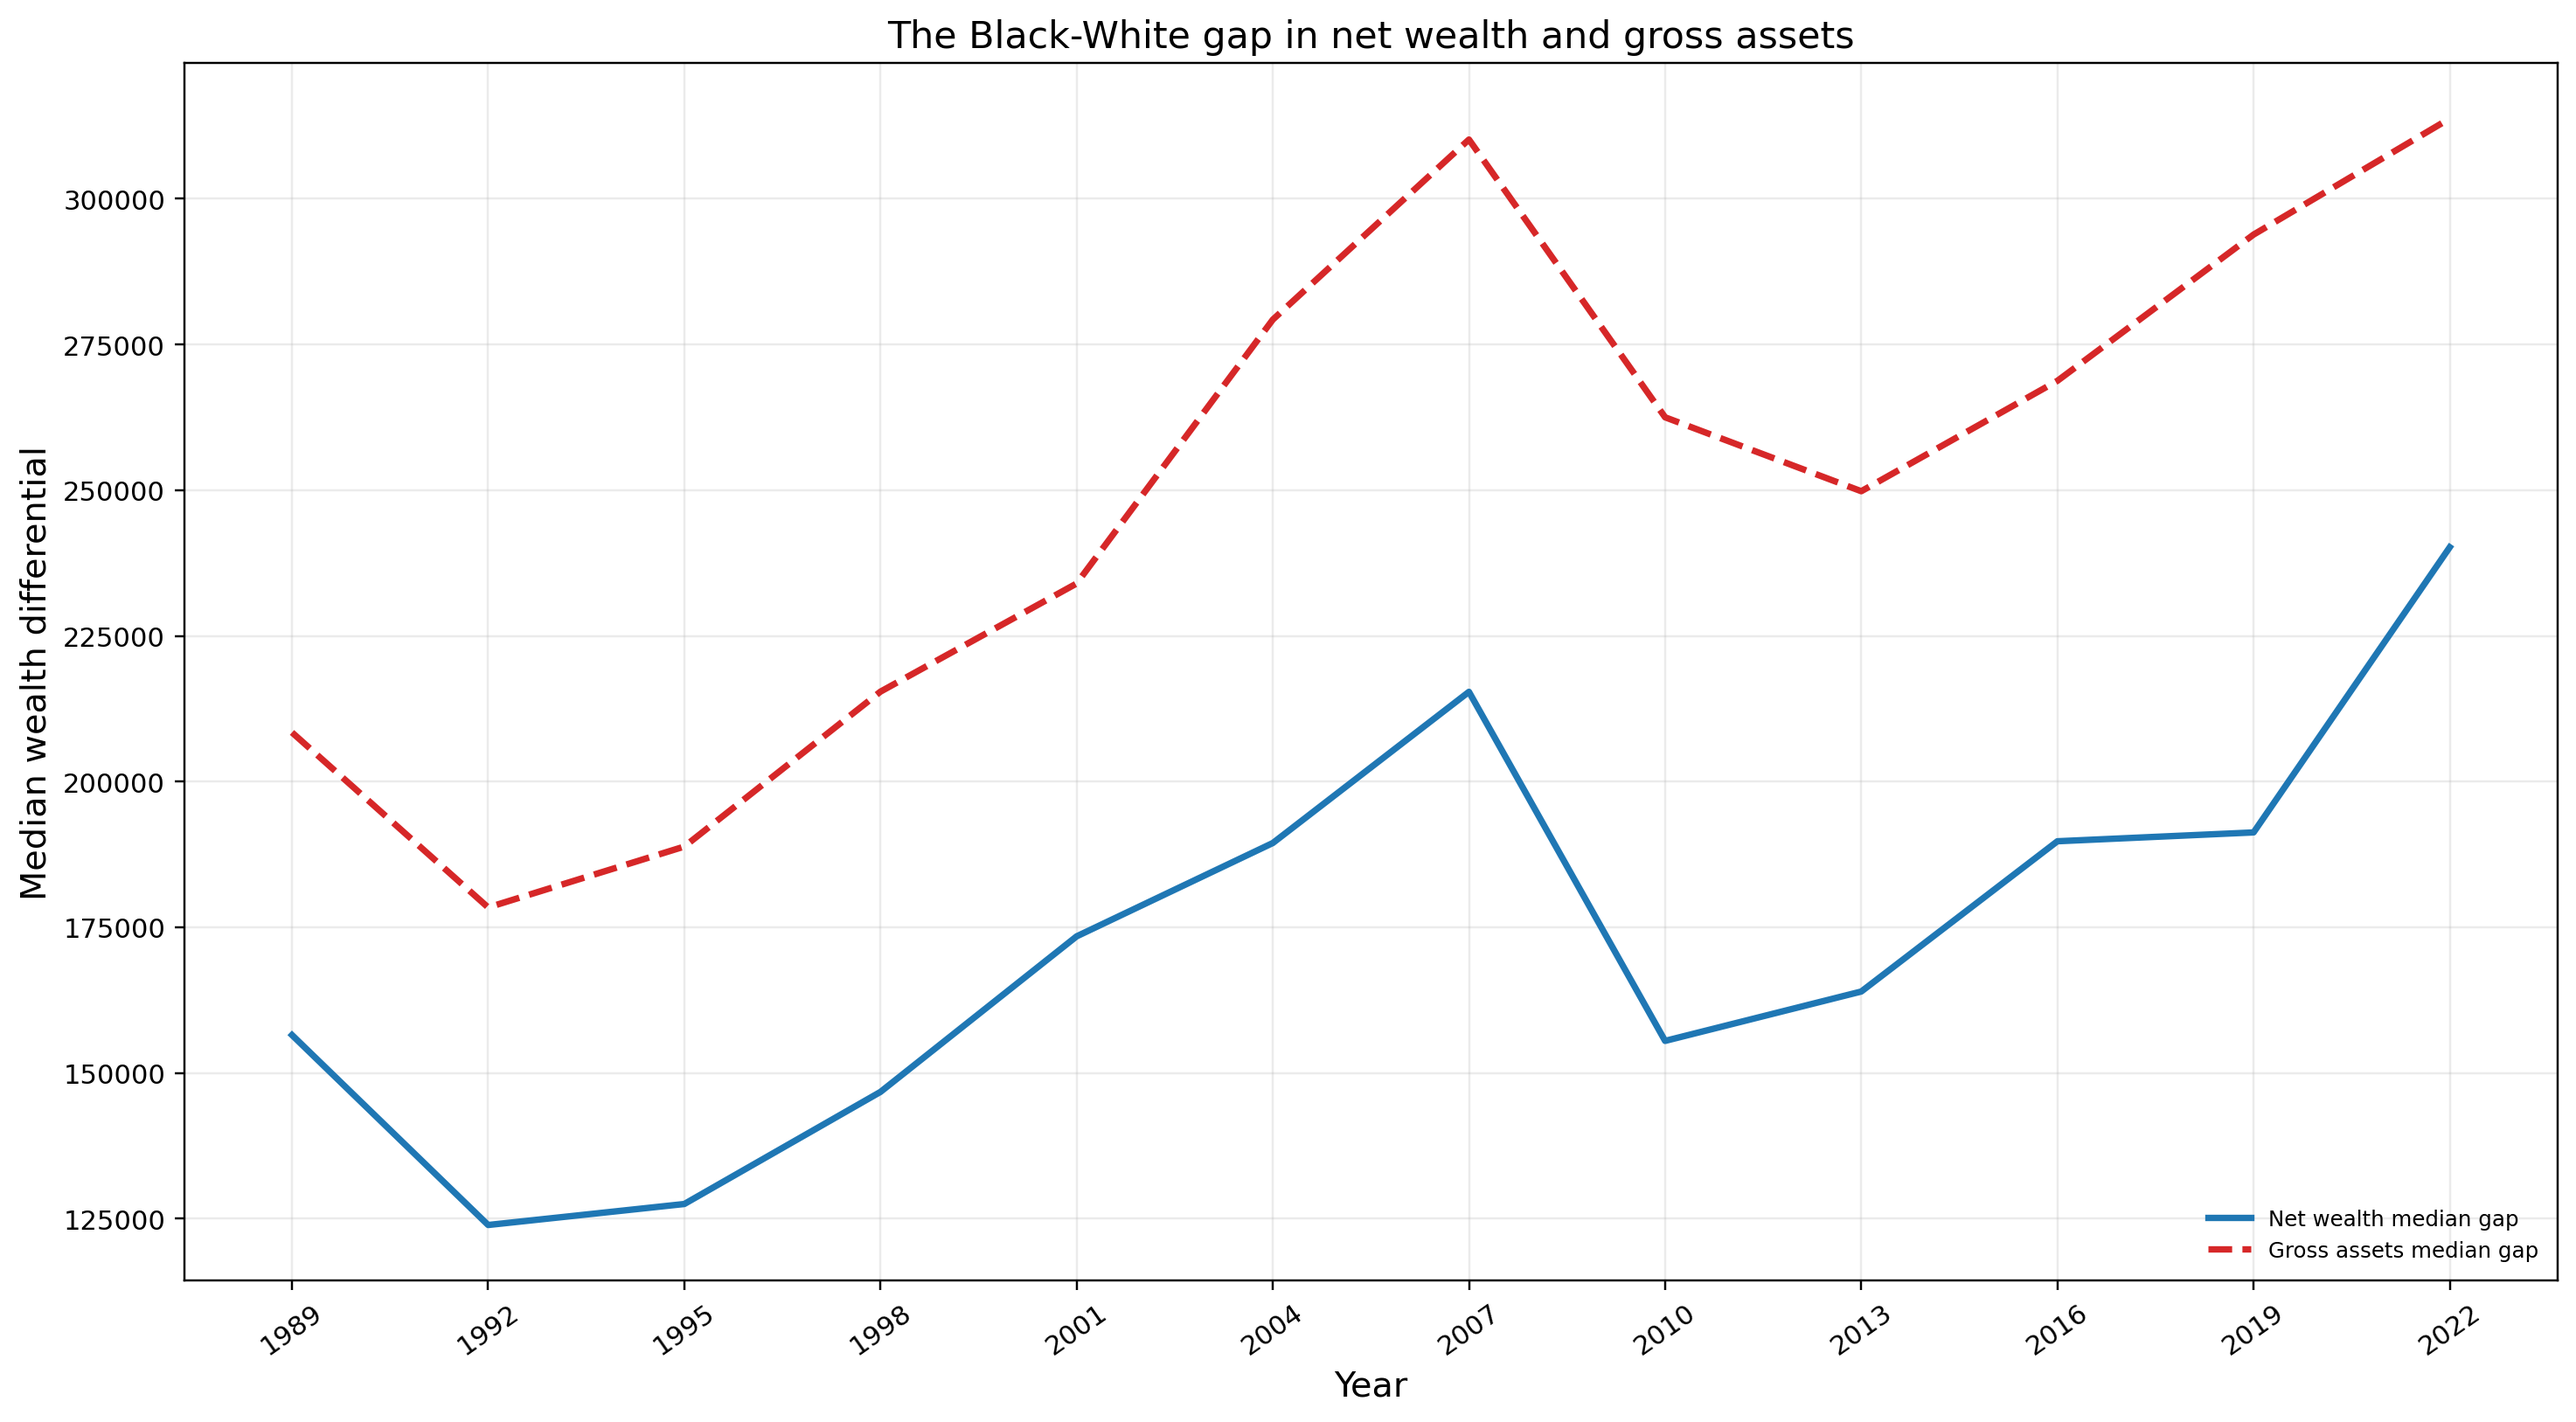
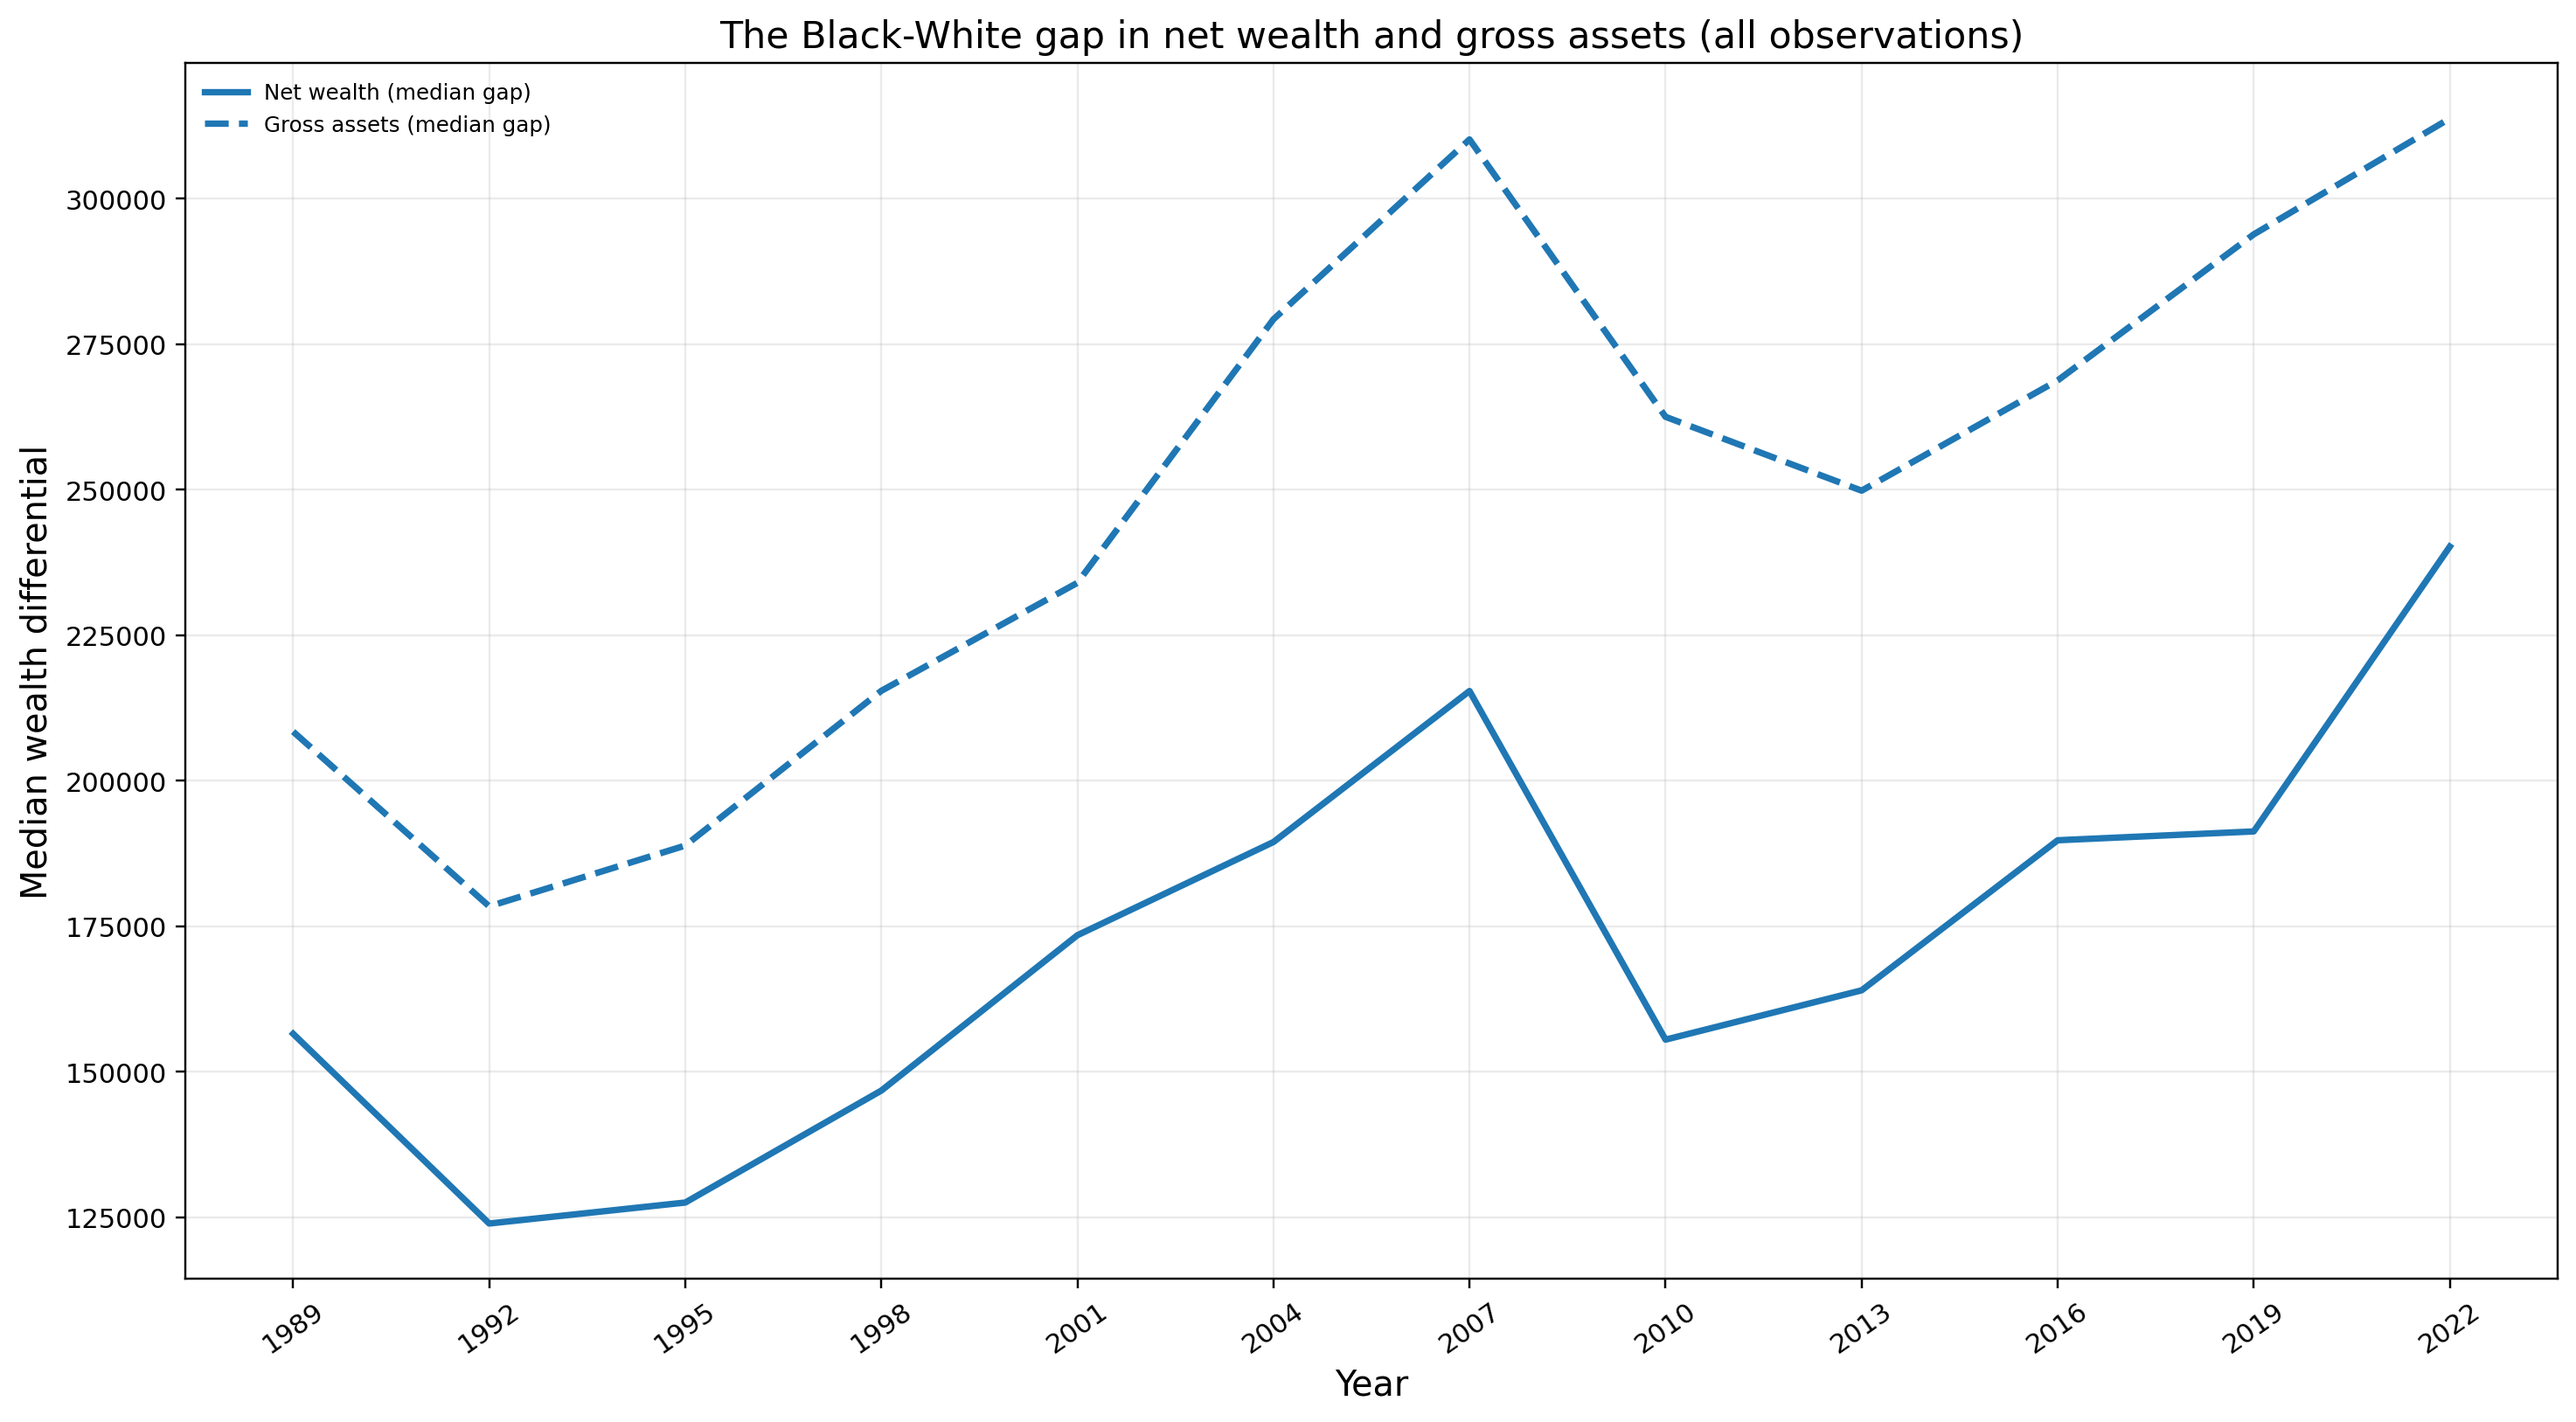
edits

diff --git a/chapters/chapter3/Figures/03_gap_diagnostic_all_obs.tex b/chapters/chapter3/Figures/03_gap_diagnostic_all_obs.tex
@@ -14,8 +14,8 @@ scaled x ticks=false,
 xticklabel style={/pgf/number format/fixed,/pgf/number format/precision=0,/pgf/number format/1000 sep={},rotate=35,anchor=east,font=\tiny},
 ]
 \addplot+[thick, blue] coordinates {(1989, 156503.09799760) (1992, 123903.78788000) (1995, 127505.91773900) (1998, 146741.86666300) (2001, 173432.89977500) (2004, 189448.58886900) (2007, 215394.21844600) (2010, 155495.50562100) (2013, 163966.35253500) (2016, 189754.11499900) (2019, 191268.87416800) (2022, 240210.00000000)};
-\addlegendentry{Net wealth median gap}
-\addplot+[thick, red, dashed] coordinates {(1989, 208424.86828400) (1992, 178396.59091300) (1995, 188839.59310200) (1998, 215426.83333700) (2001, 233983.74904100) (2004, 279262.64990800) (2007, 310169.39175400) (2010, 262505.36828800) (2013, 249818.94124500) (2016, 268763.85569400) (2019, 293858.54304300) (2022, 313770.00000000)};
-\addlegendentry{Gross assets median gap}
+\addlegendentry{Net wealth (median gap)}
+\addplot+[thick, blue, dashed] coordinates {(1989, 208424.86828400) (1992, 178396.59091300) (1995, 188839.59310200) (1998, 215426.83333700) (2001, 233983.74904100) (2004, 279262.64990800) (2007, 310169.39175400) (2010, 262505.36828800) (2013, 249818.94124500) (2016, 268763.85569400) (2019, 293858.54304300) (2022, 313770.00000000)};
+\addlegendentry{Gross assets (median gap)}
 \end{axis}
 \end{tikzpicture}

diff --git a/chapters/chapter3/Figures/03_gap_diagnostic_positive_only.tex b/chapters/chapter3/Figures/03_gap_diagnostic_positive_only.tex
@@ -14,8 +14,8 @@ scaled x ticks=false,
 xticklabel style={/pgf/number format/fixed,/pgf/number format/precision=0,/pgf/number format/1000 sep={},rotate=35,anchor=east,font=\tiny},
 ]
 \addplot+[thick, blue] coordinates {(1989, 136190.89567800) (1992, 118309.46969900) (1995, 119744.85626100) (1998, 148601.66666300) (2001, 175960.73450500) (2004, 187168.66929600) (2007, 216912.51013900) (2010, 169494.88139300) (2013, 185069.92437400) (2016, 206897.97069100) (2019, 201156.89535900) (2022, 229190.00000000)};
-\addlegendentry{Net wealth median gap}
-\addplot+[thick, red, dashed] coordinates {(1989, 167385.45837500) (1992, 154672.53788200) (1995, 172388.46527700) (1998, 202298.83333300) (2001, 214497.65876300) (2004, 267195.26032600) (2007, 287704.11249000) (2010, 239833.20849300) (2013, 233933.98487000) (2016, 269147.43405200) (2019, 293696.25430500) (2022, 311000.00000000)};
-\addlegendentry{Gross assets median gap}
+\addlegendentry{Net wealth (median gap)}
+\addplot+[thick, blue, dashed] coordinates {(1989, 167385.45837500) (1992, 154672.53788200) (1995, 172388.46527700) (1998, 202298.83333300) (2001, 214497.65876300) (2004, 267195.26032600) (2007, 287704.11249000) (2010, 239833.20849300) (2013, 233933.98487000) (2016, 269147.43405200) (2019, 293696.25430500) (2022, 311000.00000000)};
+\addlegendentry{Gross assets (median gap)}
 \end{axis}
 \end{tikzpicture}

diff --git a/chapters/chapter3/Subfiles/Computing-decory.tex b/chapters/chapter3/Subfiles/Computing-decory.tex
@@ -2,7 +2,7 @@
 
 \begin{document}
 
-\section{Wealth inequality aversion and the racial wealth gap}
+\section{Comparing inequality aversion measures to the racial wealth gap}
 \label{subsec:compute-measures}
 
 \subsection{Data}
